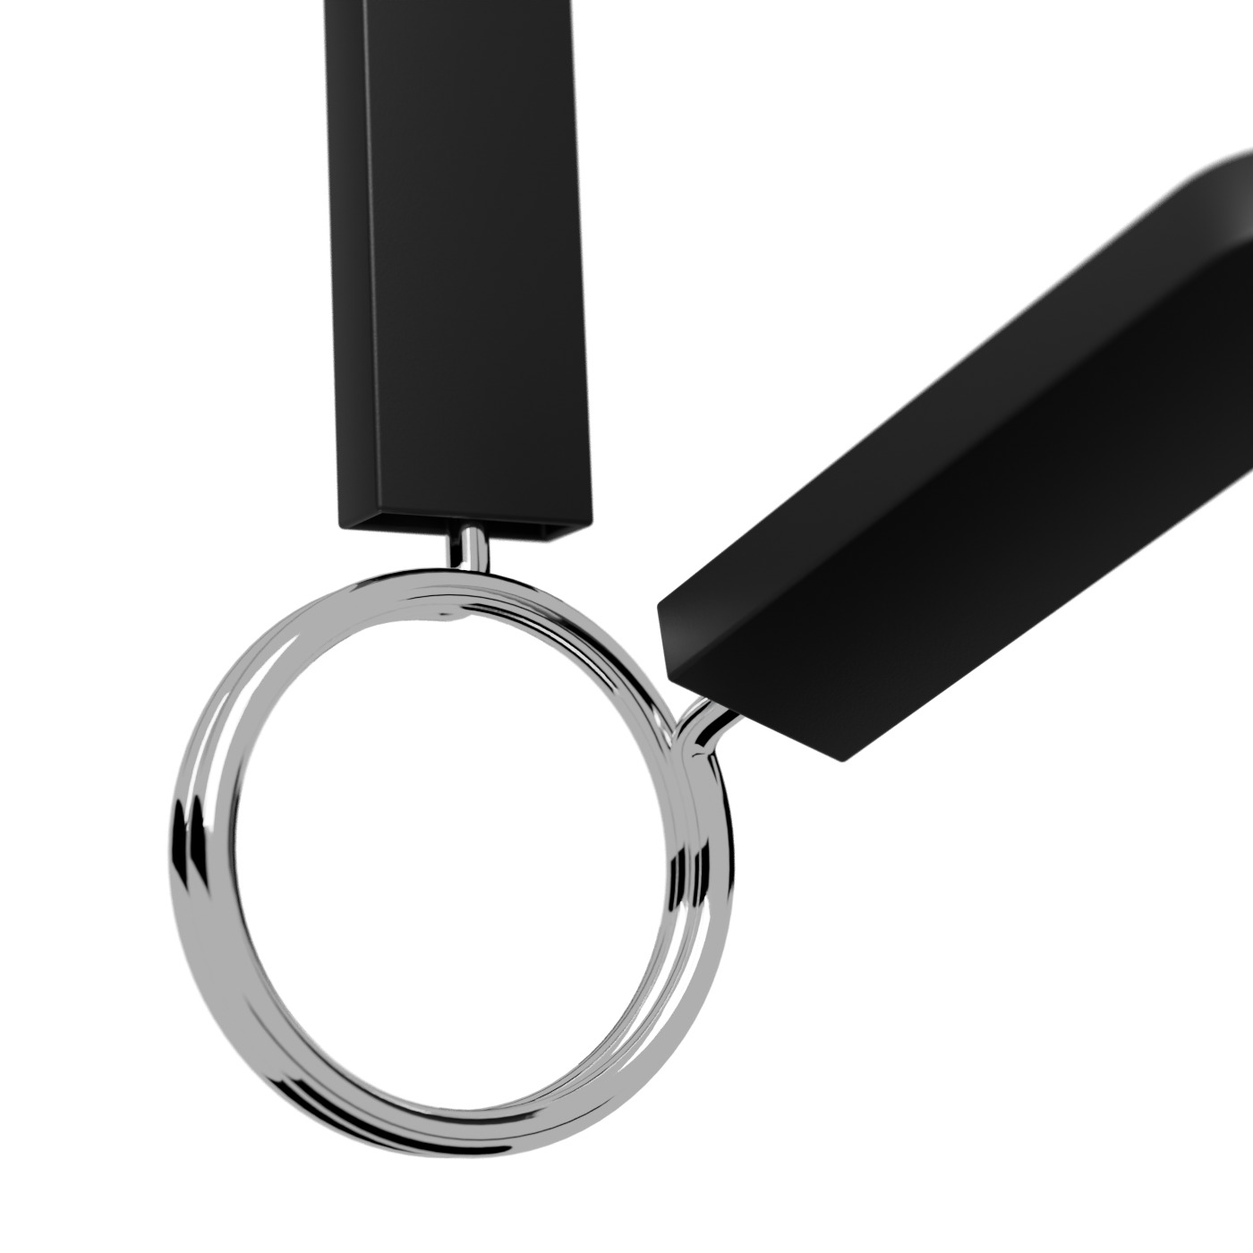
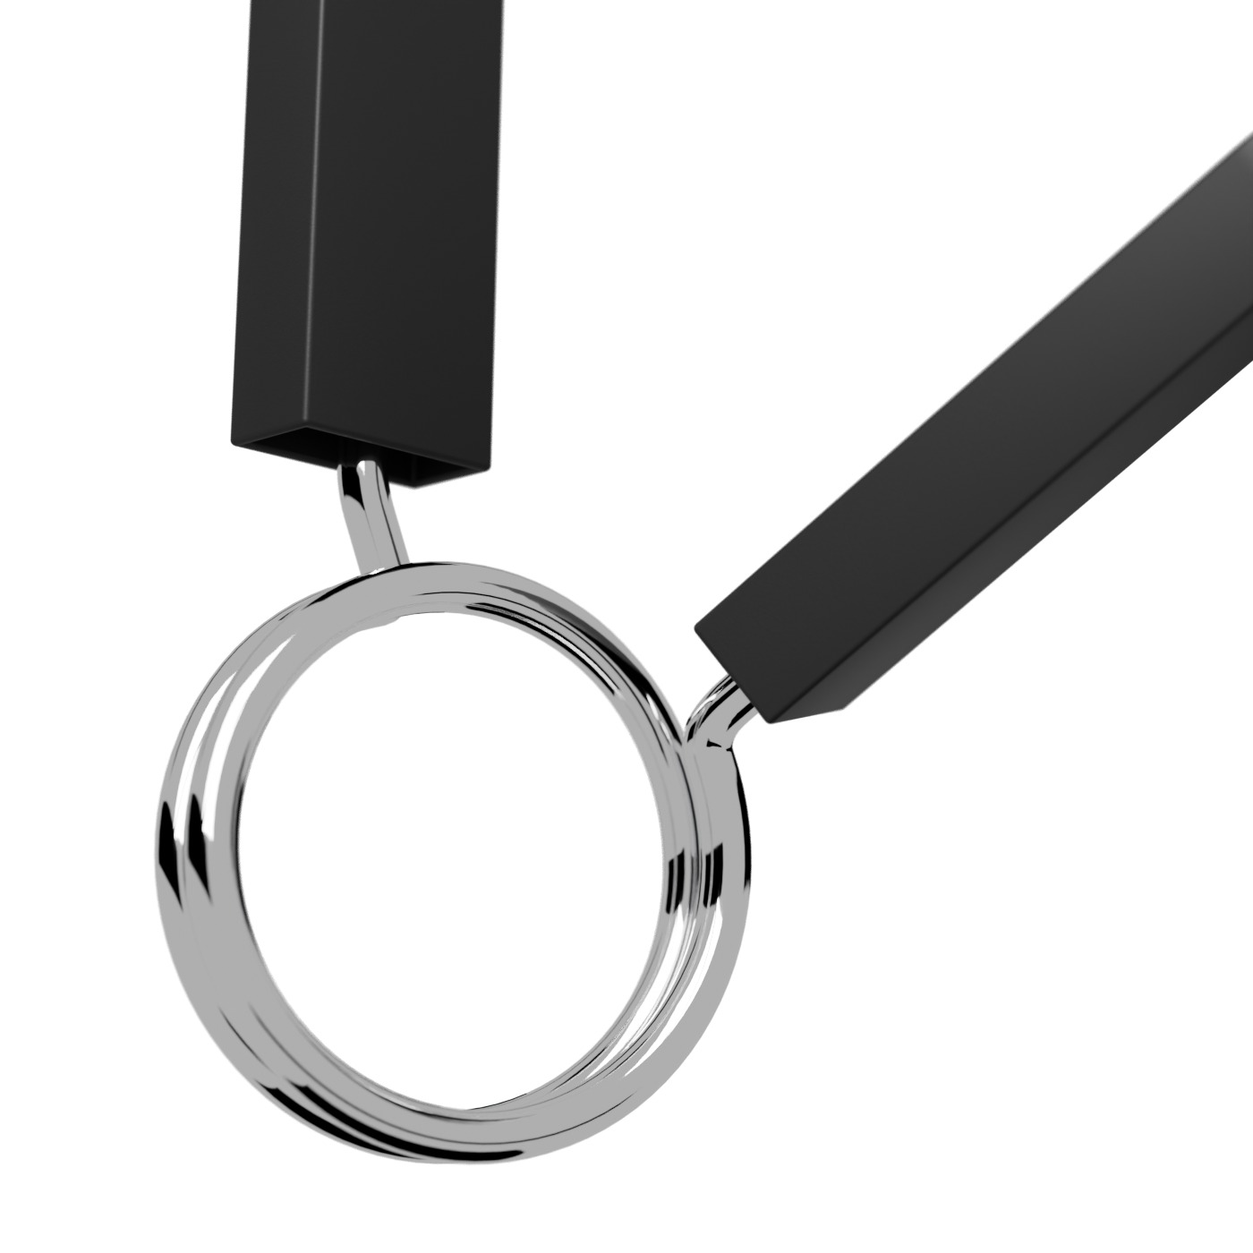
Pince : les gaines comme sur la photo de la paire (celle du bas couchée)
- Les gaines tournent librement sur le fil : chaque plan choisit leur
  rotation. Sur la paire, celle du haut est à plat et celle du bas couchée
  (tournée de 60°) et pliée de 45° vers l'arrière, comme sur la photo.
- Pose de la paire réglée par calcul (angle de vue de chaque face), tige
  droite entre l'anneau et la gaine du haut.
- Gaines de 84 × 26 × 13 mm en caoutchouc anthracite, fil de 5,4 mm,
  spires un peu écartées.
- Sur la barre, les deux gaines montrent leur grande face et la gaine pliée
  part à l'opposé du disque.

Claude-Session: https://claude.ai/code/session_01D9n9ZZi5fk6puDFh7TyVoC

Changed region(s): [[0.1229, 0.0, 1.0, 0.9521], [0.215, 0.7679, 0.2457, 0.8293]]

diff --git a/3d/prototypes/05-colliers/planche.html b/3d/prototypes/05-colliers/planche.html
@@ -22,11 +22,12 @@ figure.l img{width:900px;height:auto;display:block}
 <section>
   <div class="stitle">La pince : l'analyse</div>
   <ul class="list">
-    <li><span class="lbl2">Le fil.</span> Un acier chromé miroir d'environ 4,8 mm, deux spires serrées de 50 mm de diamètre intérieur.</li>
-    <li><span class="lbl2">Les branches.</span> Elles sont courtes et coudées. L'une sort du haut de l'anneau et monte, l'autre sort du côté avec un petit S.</li>
-    <li><span class="lbl2">Le sens des gaines (corrigé).</span> Les gaines sont à plat, dans le plan de l'anneau : vues de face, on voit leur grande face. Elles forment un V serré d'environ 40° : celle du haut monte en biais à 45°, celle du bas part vers la gauche. Celle du bas est pliée vers l'arrière : sur ta photo, elle paraît plus courte et montre son ouverture.</li>
-    <li><span class="lbl2">Les gaines.</span> Plates, noires et satinées (84 × 26 × 10 mm), ouvertes en rectangle côté fil, arrondies au bout, avec des arêtes douces.</li>
-    <li><span class="lbl2">Ta photo de profil</span> montre un autre modèle, aux gaines tournées d'un quart de tour. Elle n'est plus comparée : j'ai suivi la paire et le gros plan, qui vont ensemble (le gros plan montre la pince de dos).</li>
+    <li><span class="lbl2">Le fil.</span> Un acier chromé miroir de 5,4 mm, deux spires de 51 mm de diamètre intérieur, à peine écartées.</li>
+    <li><span class="lbl2">Les branches.</span> Celle du haut sort de l'anneau par une petite tige droite, celle du bas par un petit S.</li>
+    <li><span class="lbl2">Les gaines tournent sur le fil.</span> Le fil est rond : chaque gaine pivote librement. C'est pour ça que tes trois photos les montrent différemment.</li>
+    <li><span class="lbl2">Le sens des gaines, sur ta photo (corrigé).</span> Celle du haut est à plat : on voit sa grande face et un peu de son flanc gauche. Celle du bas est couchée, tournée d'environ 60° : on voit son dessus, son flanc et son ouverture où entre le fil. Elle est aussi pliée vers l'arrière, donc elle paraît plus courte. Les deux forment un V d'environ 40°.</li>
+    <li><span class="lbl2">Les gaines.</span> Caoutchouc gris anthracite satiné, 84 × 26 × 13 mm, ouvertes en rectangle côté fil, arrondies au bout, aux arêtes douces.</li>
+    <li><span class="lbl2">Sur la barre</span>, la gaine pliée part à l'opposé du disque, et les deux gaines montrent leur grande face.</li>
     <li><span class="lbl2">Le rendu.</span> Le chrome se photographie dans une pièce blanche avec quelques bandes noires. C'est ce qui donne ces reflets clairs coupés de traits sombres.</li>
   </ul>
 </section>
@@ -43,7 +44,7 @@ figure.l img{width:900px;height:auto;display:block}
 <section>
   <div class="stitle">Questions</div>
   <ol class="list">
-    <li>Le sens des gaines de la pince est-il bon maintenant ? Le collier à levier te va-t-il ?</li>
+    <li>Les gaines de la pince sont-elles bonnes maintenant ? Le collier à levier te va-t-il ?</li>
     <li>Le collier par défaut : la pince ou le levier ?</li>
     <li>La couleur va sur les gaines (pince) et sur tout le plastique (levier). Ça te va ?</li>
   </ol>
@@ -51,7 +52,7 @@ figure.l img{width:900px;height:auto;display:block}
 </div>
 <div class="board">
 <section class="big"><div class="stitle">La pince à ressort</div><div class="snote">à gauche ta photo, à droite notre rendu</div>
-  <div class="row"><div class="duo"><figure class="s ref"><img src="../../references/colliers/02-ta-reference-pince-paire.jpeg" alt=""><div class="cap"><b>Ta référence</b> · la paire</div></figure><figure class="s"><img src="pince/noir-paire.jpg" alt=""><div class="cap"><b>Notre rendu</b> · la paire</div></figure></div><div class="duo"><figure class="s ref"><img src="../../references/colliers/01-ta-reference-pince-macro.jpeg" alt=""><div class="cap"><b>Ta référence</b> · de près</div></figure><figure class="s"><img src="pince/noir-macro.jpg" alt=""><div class="cap"><b>Notre rendu</b> · de près</div></figure></div></div><div class="row"><figure class="s"><img src="pince/noir-trois-quarts.jpg" alt=""><div class="cap">De trois-quarts : les gaines à plat, celle du bas pliée vers l'arrière</div></figure><figure class="p"><img src="pince/noir-sur-barre.jpg" alt=""><div class="cap">Sur la barre, contre un disque</div></figure><figure class="s"><img src="pince/rose-paire.jpg" alt=""><div class="cap">Gaines roses</div></figure><figure class="s"><img src="pince/bleu-paire.jpg" alt=""><div class="cap">Gaines bleues</div></figure><figure class="l"><img src="pince/noir-couleurs.jpg" alt=""><div class="cap">Les huit coloris</div></figure></div></section>
+  <div class="row"><div class="duo"><figure class="s ref"><img src="../../references/colliers/02-ta-reference-pince-paire.jpeg" alt=""><div class="cap"><b>Ta référence</b> · la paire</div></figure><figure class="s"><img src="pince/noir-paire.jpg" alt=""><div class="cap"><b>Notre rendu</b> · la paire</div></figure></div><div class="duo"><figure class="s ref"><img src="../../references/colliers/01-ta-reference-pince-macro.jpeg" alt=""><div class="cap"><b>Ta référence</b> · de près</div></figure><figure class="s"><img src="pince/noir-macro.jpg" alt=""><div class="cap"><b>Notre rendu</b> · de près</div></figure></div></div><div class="row"><figure class="s"><img src="pince/noir-trois-quarts.jpg" alt=""><div class="cap">De trois-quarts</div></figure><figure class="p"><img src="pince/noir-sur-barre.jpg" alt=""><div class="cap">Sur la barre, contre un disque</div></figure><figure class="s"><img src="pince/rose-paire.jpg" alt=""><div class="cap">Gaines roses</div></figure><figure class="s"><img src="pince/bleu-paire.jpg" alt=""><div class="cap">Gaines bleues</div></figure><figure class="l"><img src="pince/noir-couleurs.jpg" alt=""><div class="cap">Les huit coloris</div></figure></div></section>
 <section class="big"><div class="stitle">Le collier à levier</div><div class="snote">à gauche ta photo, à droite notre rendu</div>
   <div class="row"><div class="duo"><figure class="s ref"><img src="../../references/colliers/04-ta-reference-levier.jpeg" alt=""><div class="cap"><b>Ta référence</b> · fermé et ouvert</div></figure><figure class="s"><img src="levier/noir-paire.jpg" alt=""><div class="cap"><b>Notre rendu</b> · fermé et ouvert</div></figure></div><figure class="s"><img src="levier/noir-detail.jpg" alt=""><div class="cap">Le levier et sa grille</div></figure></div><div class="row"><figure class="p"><img src="levier/noir-sur-barre.jpg" alt=""><div class="cap">Sur la barre, contre un disque</div></figure><figure class="s"><img src="levier/rose-paire.jpg" alt=""><div class="cap">Rose</div></figure><figure class="s"><img src="levier/bleu-paire.jpg" alt=""><div class="cap">Bleu</div></figure><figure class="l"><img src="levier/noir-couleurs.jpg" alt=""><div class="cap">Les huit coloris</div></figure></div></section>
 </div></body></html>

diff --git a/3d/outils/blender/colliers.py b/3d/outils/blender/colliers.py
@@ -19,7 +19,8 @@ COLOUR = ARGS.get('couleur', 'noir')
 def plastic(colour, name='plastique'):
     """Satin moulded plastic (the sleeves, the collar body)."""
     c = lin(colour)
-    m = mat(name, tuple(x * 0.92 for x in c) if colour != 'noir' else (0.008, 0.008, 0.009), rough=0.44, spec=0.36, grain=0.12, grain_scale=3000)
+    black = (0.015, 0.015, 0.016) if name == 'gaine' else (0.008, 0.008, 0.009)   # the sleeves: a dark grey rubber, as on the photos
+    m = mat(name, tuple(x * 0.92 for x in c) if colour != 'noir' else black, rough=0.5 if name == 'gaine' else 0.44, spec=0.36, grain=0.12, grain_scale=3000)
     return m
 
 
@@ -61,7 +62,7 @@ def chrome_studio(k=1.0):
         me = bpy.data.meshes.new('bande')
         me.from_pydata([(-sx, -sy, 0), (sx, -sy, 0), (sx, sy, 0), (-sx, sy, 0)], [], [(0, 1, 2, 3)])
         o = link(bpy.data.objects.new('bande', me)); me.materials.append(blk)
-        o.location = loc; o.rotation_euler = rot; o.visible_camera = False
+        o.location = loc; o.rotation_euler = rot; o.visible_camera = False; o.visible_shadow = False
 
 
 def shadow_floor(z):
@@ -87,10 +88,11 @@ def square():
 
 
 # ------------------------------------------------------------------ the spring clip
-def sleeve(name, E, d, wdir, m, L=0.084, w=0.026, t=0.0105):
+def sleeve(name, E, d, wdir, m, L=0.084, w=0.026, t=None):
     """Flat sleeve: open rectangular end at E, rounded tip, pointing along d, its width along wdir.
     As on the user's photos (22/11), the sleeves lie flat: the width stays in the plane of the ring.
     Local axes: X = thickness, Y = along the sleeve, Z = width."""
+    t = t or P_THICK
     out = [(0.0, -w / 2), (L - w / 2, -w / 2)] + [((L - w / 2) + (w / 2) * math.cos(a), (w / 2) * math.sin(a))
                                                   for a in [math.radians(-90 + 180 * i / 24) for i in range(1, 24)]] + [(L - w / 2, w / 2), (0.0, w / 2)]
     o = fix_normals(prism(name, out, -t / 2, t / 2, m, axis='X'))
@@ -102,7 +104,7 @@ def sleeve(name, E, d, wdir, m, L=0.084, w=0.026, t=0.0105):
     cav = box(name + '_creux', (t - 0.0026, 0.04, w - 0.0026), (0, 0, 0), m)
     cav.matrix_world = mtx @ Matrix.Translation((0.0, 0.019 - 0.0011, 0.0))
     boolean(o, cav)
-    bevel(o, float(ARGS.get('arrondi', 0.0018)), segs=4, angle=35)
+    bevel(o, float(ARGS.get('arrondi', 0.0026)), segs=4, angle=35)
     o = bake(o, 35)
     remove(cav)
     return o
@@ -121,18 +123,26 @@ def unit(deg):
 # the lower one goes left, so the two sleeves make a V of about 40°. Both lie flat (their width in the plane
 # of the ring, not across it); the lower one is bent out of that plane, towards the back of the clip, so on
 # the photo of the pair it looks shorter and shows its open end. Tuned against the photo (keys for tests).
-P_UP = float(ARGS.get('haut', 137))       # upper sleeve, angle in the ring plane
-P_LO = float(ARGS.get('bas', 172))        # lower sleeve, angle in the ring plane
-P_TILT = float(ARGS.get('recul', 60))     # lower sleeve, bent towards the back (-X)
-P_EXIT = float(ARGS.get('sortie', 138))   # where the upper leg leaves the ring
+P_UP = float(ARGS.get('haut', 141))       # upper sleeve, angle in the ring plane
+P_LO = float(ARGS.get('bas', 176))        # lower sleeve, angle in the ring plane
+P_TILT = float(ARGS.get('recul', 45))     # lower sleeve, bent towards the back (-X)
+P_EXIT = float(ARGS.get('sortie', 124))   # where the upper leg leaves the ring
+P_STUB = float(ARGS.get('tige', 121))     # the upper leg's straight stub, out of the ring (about radial)
 P_START = float(ARGS.get('debut', 210))   # where the lower leg leaves the ring
-P_ROLL = float(ARGS.get('vrille', 20))    # lower sleeve, turned a little on its own axis
+P_ROLL = float(ARGS.get('vrille', 60))    # lower sleeve, turned on its own axis (the sleeve turns freely on the wire)
+P_ROLL_UP = float(ARGS.get('vrille_haut', 15))  # upper sleeve, turned on its own axis
+P_TILT_UP = float(ARGS.get('recul_haut', 0))    # upper sleeve, bent towards the back (-X)
+P_THICK = float(ARGS.get('epaisseur', 0.013))   # sleeve thickness (26 mm wide)
+P_ELEV = float(ARGS.get('elev', 30))      # the pair: how much the camera looks down (the rings lean back to face it)
 
 
-def pince2(M, colour='noir', name='pince'):
-    rw = 0.0024
+def pince2(M, colour='noir', name='pince', roll=None, roll_up=None):
+    """The spring clip. The sleeves turn freely on the wire: roll / roll_up turn them for a given shot."""
+    roll = P_ROLL if roll is None else roll
+    roll_up = P_ROLL_UP if roll_up is None else roll_up
+    rw = 0.0027                     # a 5.4 mm wire: on the photos the coil looks massive
     rc = 0.0255 + rw + 0.0003
-    pitch = 2 * rw + 0.0002
+    pitch = 2 * rw + float(ARGS.get('jeu', 0.0025))     # a small gap between the two turns, as on the photos
     th0 = math.radians(P_START)
     th1 = math.radians(P_EXIT + 720)
     span = th1 - th0
@@ -148,20 +158,29 @@ def pince2(M, colour='noir', name='pince'):
     h1, h2 = unit(P_LO), unit(P_UP)
     t = math.radians(P_TILT)
     d1 = h1 * math.cos(t) + Vector((-1.0, 0.0, 0.0)) * math.sin(t)
+    tu = math.radians(P_TILT_UP)
+    d2 = h2 * math.cos(tu) + Vector((-1.0, 0.0, 0.0)) * math.sin(tu)
     sl = plastic(colour, 'gaine')
     parts = []
     legs = []
     for P0, e, d, h, runs in ((coil[0], e1, d1, h1, (0.002, 0.003, 0.005, 0.005)),
-                              (coil[-1], e2, h2, h2, (0.0012, 0.0028, 0.004, 0.004))):
+                              (coil[-1], e2, d2, h2, (0.0012, 0.0028, 0.004, 0.004))):
         r0, r1, r2, r3 = runs
         a = P0 + e * r0
         c = a + e * r1
         b = c + d * r2
         E = b + d * r3
         pts = ([tuple(P0 + e * r0 * 0.5)] if r0 > 0.002 else []) + [tuple(a)] + bez(a, c, b) + [tuple(E), tuple(E + d * 0.016)]
+        if d is d2:
+            # the upper leg, as on the photo: a sharp bend at the ring, a straight stub going out (about 12 mm),
+            # then a soft bend into the sleeve
+            s2 = unit(P_STUB)
+            b1 = a + e * 0.002 + s2 * 0.003
+            q = b1 + s2 * 0.0065
+            E = q + s2 * 0.003 + d * 0.003
+            pts = [tuple(a)] + bez(a, a + e * 0.002, b1, 6) + [tuple(q)] + bez(q, q + s2 * 0.003, E, 6) + [tuple(E + d * 0.016)]
         wv = Vector((0.0, -h.z, h.y))
-        if d is d1:
-            wv = Matrix.Rotation(math.radians(P_ROLL), 3, d) @ wv
+        wv = Matrix.Rotation(math.radians(roll if d is d1 else roll_up), 3, d) @ wv
         legs.append((pts, E, d, wv))
     path = list(reversed(legs[0][0])) + [tuple(p) for p in coil] + legs[1][0]
     parts.append(wire(name + '_fil', path, rw, M['chrome']))
@@ -272,7 +291,7 @@ def out(plan):
 
 
 # the pair, as on the user's photo: the rings face the camera (seen a little from above)
-FACE = (math.radians(-10), math.radians(-13), math.radians(-70))
+FACE = (math.radians(-10), math.radians(-P_ELEV), math.radians(float(ARGS.get('rz', -80))))
 
 
 def shot():
@@ -285,10 +304,11 @@ def shot():
         M = collar_mats(COLOUR)
         if PIECE == 'pince':
             if plan == 'paire':
-                a = pince2(M, COLOUR, 'pa'); a.location = (0.036, 0.03, 0.03); a.rotation_euler = FACE
+                a = pince2(M, COLOUR, 'pa'); a.location = (0.036, 0.03, 0.015); a.rotation_euler = FACE
                 b = pince2(M, COLOUR, 'pb'); b.location = (-0.036, -0.03, -0.03); b.rotation_euler = FACE
-                chrome_studio(); square()
-                camera((-0.029, -0.42, 0.134), (-0.033, 0.0, 0.042), lens=66, fstop=16)
+                chrome_studio(float(ARGS.get('k', 1.5))); square()
+                el = math.radians(P_ELEV)
+                camera((-0.029, -0.43 * math.cos(el), 0.035 + 0.43 * math.sin(el)), (-0.033, 0.0, 0.035), lens=66, fstop=16)
             elif plan == 'macro':
                 # seen from the back and from the left, like the user's close-up: the upper sleeve stands
                 # straight up, the bent one comes towards the camera and goes off to the right
@@ -303,7 +323,10 @@ def shot():
                 barre_olympique(bar_mats('B', 'noir'))
                 e = disque(20, plate_mats('noir', 'moule'), name='d'); x = 0.686 + e['T'] / 2
                 e.location = (x, 0, 0); e.rotation_euler = (0, 0, math.radians(90))
-                c = pince2(M, COLOUR); c.location = (x + e['T'] / 2 + 0.006, 0, 0); c.rotation_euler = (math.radians(-85), 0, math.radians(180))   # the bent sleeve away from the plate
+                # the bent sleeve goes away from the plate; the sleeves turned so both show their broad face (found by probing)
+                c = pince2(M, COLOUR, roll=-60, roll_up=0)
+                c.location = (x + e['T'] / 2 + 0.013, 0, 0)
+                c.rotation_euler = (math.radians(-60), 0, math.radians(180))
                 catalog(k=1.05); flags((0.8, 0, 0)); portrait()
                 camera((1.12, -0.33, 0.17), (0.8, 0.0, 0.02), lens=70, fstop=5.6, focus=(x + e['T'] / 2 + 0.01, -0.03, 0.0))
             elif plan == 'couleurs':

diff --git a/3d/outils/planche_colliers.py b/3d/outils/planche_colliers.py
@@ -1,5 +1,6 @@
 # Step 7 (22/11/2026): the two collars reworked from the user's references, shown side by side with them.
-# 22/11, later: the clip's sleeves turned flat, as on the photo of the pair; the profile photo (another model) is no longer compared.
+# 22/11, later: the clip's sleeves as on the photo of the pair (upper one flat, lower one lying down and bent back);
+# the sleeves turn freely on the wire, which is why the three photos show them differently.
 # Finishes the renders of outils/blender/rendus-colliers.sh into 3d/prototypes/05-colliers/, then writes
 # planche.html and planche.jpg. The board shows the user's references: it stays on the Mac (see .gitignore).
 # usage: python3 3d/outils/planche_colliers.py
@@ -40,7 +41,7 @@ pince = ''.join([
     duo('02-ta-reference-pince-paire.jpeg', 'la paire', finish('pince', 'noir', 'paire'), 'la paire'),
     duo('01-ta-reference-pince-macro.jpeg', 'de près', finish('pince', 'noir', 'macro'), 'de près'),
 ])
-pince_plus = (fig(finish('pince', 'noir', 'trois-quarts'), 'De trois-quarts : les gaines à plat, celle du bas pliée vers l\'arrière', 's')
+pince_plus = (fig(finish('pince', 'noir', 'trois-quarts'), 'De trois-quarts', 's')
               + fig(finish('pince', 'noir', 'sur-barre', '#F2F2F3'), 'Sur la barre, contre un disque', 'p')
               + fig(finish('pince', 'rose', 'paire'), 'Gaines roses', 's') + fig(finish('pince', 'bleu', 'paire'), 'Gaines bleues', 's')
               + fig(finish('pince', 'noir', 'couleurs'), 'Les huit coloris', 'l'))
@@ -59,11 +60,12 @@ notes = '''
 <section>
   <div class="stitle">La pince : l'analyse</div>
   <ul class="list">
-    <li><span class="lbl2">Le fil.</span> Un acier chromé miroir d'environ 4,8 mm, deux spires serrées de 50 mm de diamètre intérieur.</li>
-    <li><span class="lbl2">Les branches.</span> Elles sont courtes et coudées. L'une sort du haut de l'anneau et monte, l'autre sort du côté avec un petit S.</li>
-    <li><span class="lbl2">Le sens des gaines (corrigé).</span> Les gaines sont à plat, dans le plan de l'anneau : vues de face, on voit leur grande face. Elles forment un V serré d'environ 40° : celle du haut monte en biais à 45°, celle du bas part vers la gauche. Celle du bas est pliée vers l'arrière : sur ta photo, elle paraît plus courte et montre son ouverture.</li>
-    <li><span class="lbl2">Les gaines.</span> Plates, noires et satinées (84 × 26 × 10 mm), ouvertes en rectangle côté fil, arrondies au bout, avec des arêtes douces.</li>
-    <li><span class="lbl2">Ta photo de profil</span> montre un autre modèle, aux gaines tournées d'un quart de tour. Elle n'est plus comparée : j'ai suivi la paire et le gros plan, qui vont ensemble (le gros plan montre la pince de dos).</li>
+    <li><span class="lbl2">Le fil.</span> Un acier chromé miroir de 5,4 mm, deux spires de 51 mm de diamètre intérieur, à peine écartées.</li>
+    <li><span class="lbl2">Les branches.</span> Celle du haut sort de l'anneau par une petite tige droite, celle du bas par un petit S.</li>
+    <li><span class="lbl2">Les gaines tournent sur le fil.</span> Le fil est rond : chaque gaine pivote librement. C'est pour ça que tes trois photos les montrent différemment.</li>
+    <li><span class="lbl2">Le sens des gaines, sur ta photo (corrigé).</span> Celle du haut est à plat : on voit sa grande face et un peu de son flanc gauche. Celle du bas est couchée, tournée d'environ 60° : on voit son dessus, son flanc et son ouverture où entre le fil. Elle est aussi pliée vers l'arrière, donc elle paraît plus courte. Les deux forment un V d'environ 40°.</li>
+    <li><span class="lbl2">Les gaines.</span> Caoutchouc gris anthracite satiné, 84 × 26 × 13 mm, ouvertes en rectangle côté fil, arrondies au bout, aux arêtes douces.</li>
+    <li><span class="lbl2">Sur la barre</span>, la gaine pliée part à l'opposé du disque, et les deux gaines montrent leur grande face.</li>
     <li><span class="lbl2">Le rendu.</span> Le chrome se photographie dans une pièce blanche avec quelques bandes noires. C'est ce qui donne ces reflets clairs coupés de traits sombres.</li>
   </ul>
 </section>
@@ -80,7 +82,7 @@ notes = '''
 <section>
   <div class="stitle">Questions</div>
   <ol class="list">
-    <li>Le sens des gaines de la pince est-il bon maintenant ? Le collier à levier te va-t-il ?</li>
+    <li>Les gaines de la pince sont-elles bonnes maintenant ? Le collier à levier te va-t-il ?</li>
     <li>Le collier par défaut : la pince ou le levier ?</li>
     <li>La couleur va sur les gaines (pince) et sur tout le plastique (levier). Ça te va ?</li>
   </ol>

diff --git a/Lis-moi.md b/Lis-moi.md
@@ -73,7 +73,7 @@ Tout est rassemblé dans **`3d/charte.md`** : la police, les coloris, les taille
 - Tes photos sont dans `3d/references/colliers/` : trois de la pince à ressort, une du collier à levier.
 - `3d/prototypes/05-colliers/planche.jpg` : chacune de tes photos à côté de notre rendu, pris sous le même angle, puis les plans en plus (sur la barre, les huit coloris, rose et bleu). La planche reste sur ton Mac, puisqu'elle montre tes photos. On la refait avec `python3 3d/outils/planche_colliers.py`.
 - La pince : fil chromé de 4,8 mm, deux spires serrées, branches coudées, gaines plates ouvertes en rectangle et arrondies au bout.
-- **Ton retour (22/11) :** le sens des gaines n'allait pas. Elles sont maintenant à plat dans le plan de l'anneau, en V serré, et celle du bas est pliée vers l'arrière, comme sur ta photo de la paire. Ta photo de profil montre un autre modèle : elle est remplacée par une vue de trois-quarts.
+- **Tes retours (22/11) :** le sens des gaines n'allait pas. Les gaines tournent librement sur le fil, ce qui explique pourquoi tes trois photos les montrent différemment. La paire reprend maintenant ta photo : la gaine du haut à plat, celle du bas couchée et pliée vers l'arrière. Sur la barre, les deux gaines montrent leur grande face. La vue de profil est remplacée par une vue de trois-quarts.
 - Le collier à levier : deux mâchoires à six lobes articulées en bas, une garniture en caoutchouc, une charnière à trois segments, un levier avec sa grille, des vis cruciformes, montré fermé et ouvert.
 - Le modèle est dans `3d/outils/blender/colliers.py`. Tous les rendus se refont avec `rendus-colliers.sh` (ou `rendus-colliers.sh pince` pour la pince seule).
 

diff --git a/3d/charte.md b/3d/charte.md
@@ -71,7 +71,7 @@ Les petites mentions (« KG » sur les disques) sont ton sur ton : de la couleur
 ### Les colliers
 
 Deux modèles seulement : **la pince à ressort** et **le collier à levier**, d'après les références de l'utilisateur (étape 7, en cours de validation).
-- **La pince :** les gaines sont à plat dans le plan de l'anneau (jamais tournées en travers). Elles forment un V serré d'environ 40°, et celle du bas est pliée vers l'arrière.
+- **La pince :** fil chromé de 5,4 mm, deux spires. Gaines en caoutchouc anthracite de 84 × 26 × 13 mm, qui tournent librement sur le fil. Elles forment un V d'environ 40°, et la branche du bas est pliée vers l'arrière (45°). La pose de référence est celle de la photo de la paire : la gaine du haut à plat, celle du bas couchée (tournée d'environ 60°).
 
 ## Gardé de côté
 
